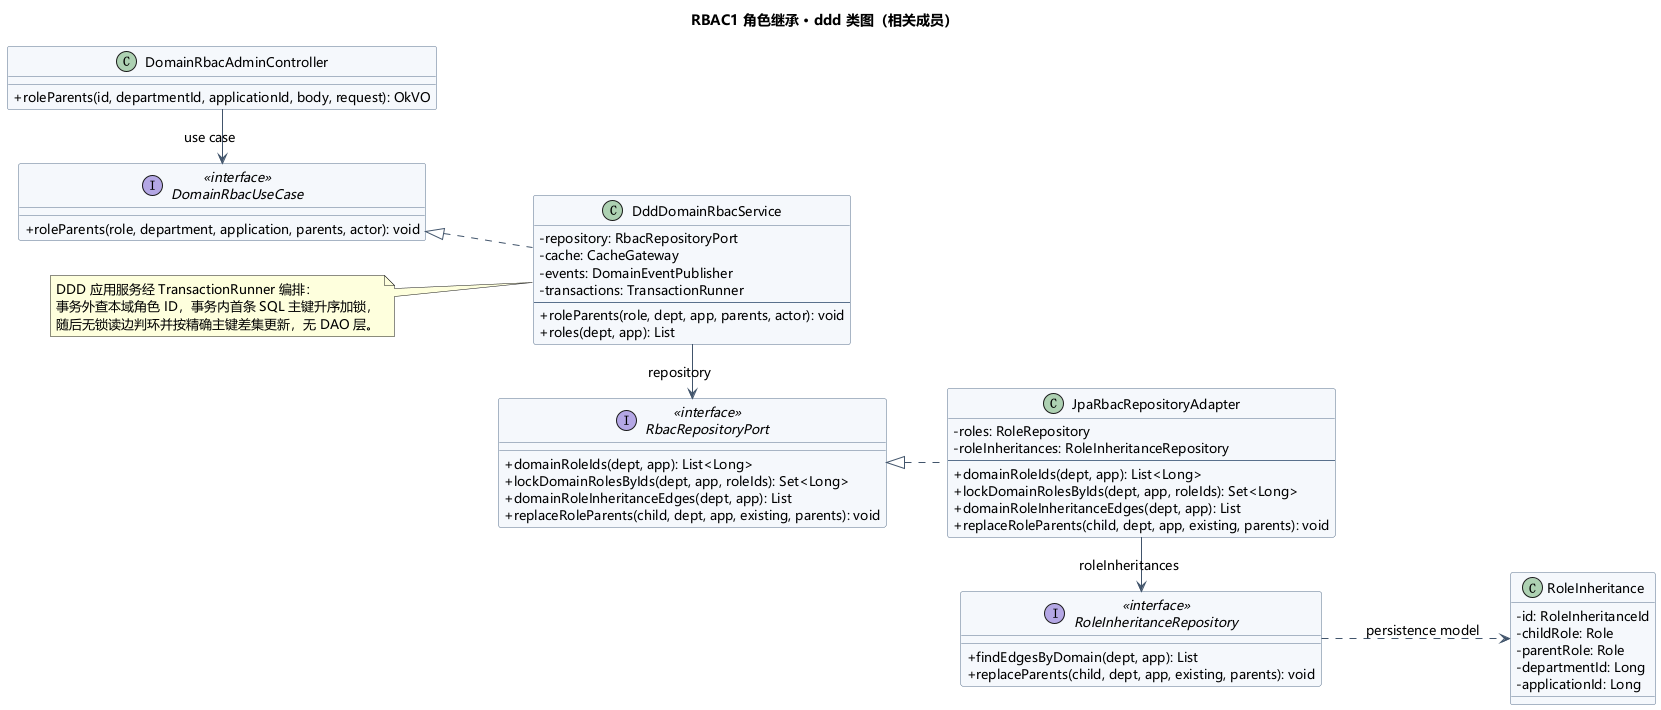
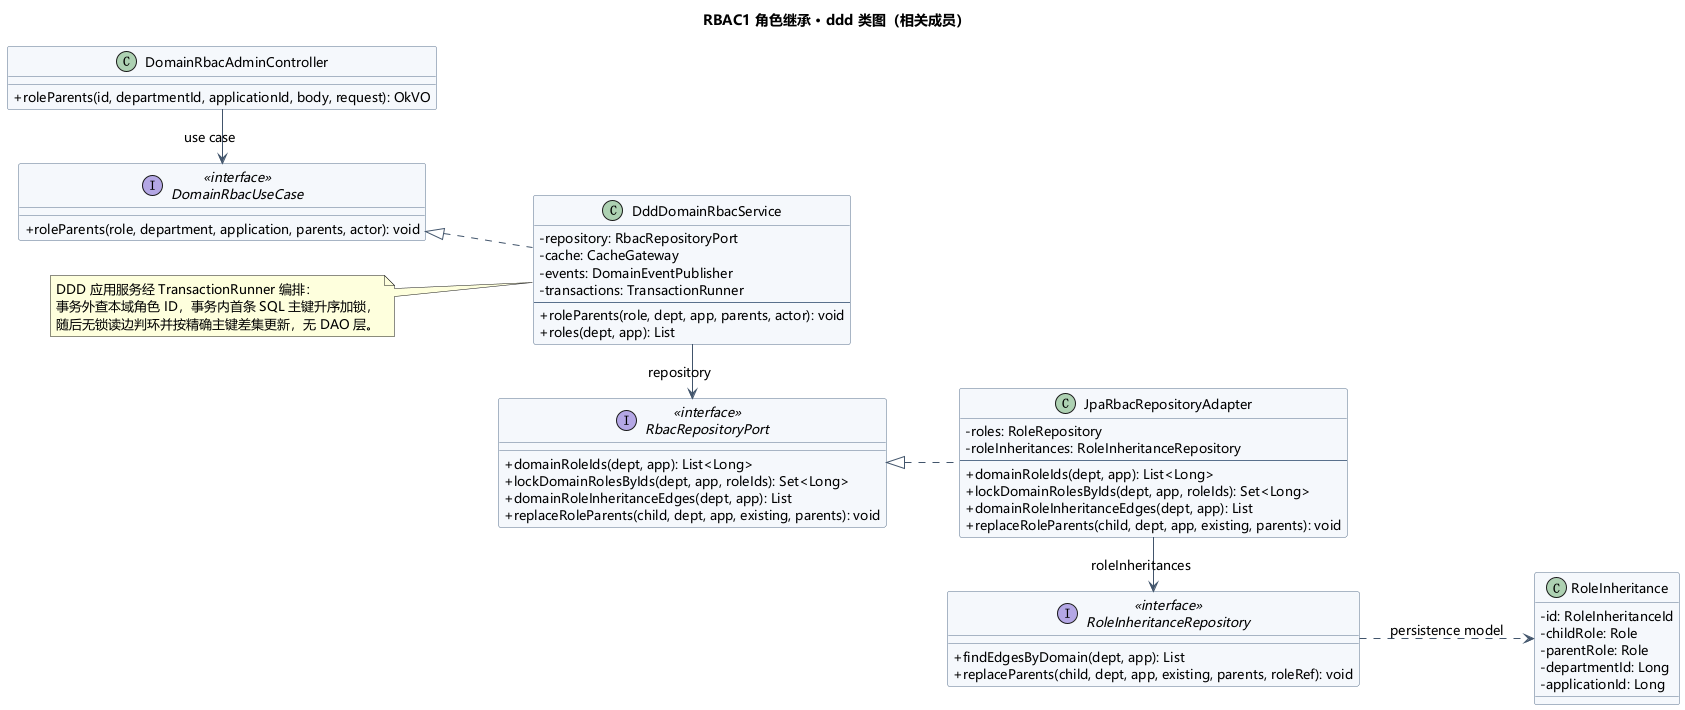
docs(architecture): sync docs and UML diagrams to pure Spring Data JPA

diff --git a/AGENTS.md b/AGENTS.md
@@ -33,7 +33,7 @@
 | IDEA | `C:\Program Files\JetBrains\IntelliJ IDEA 2024.2.1`；图形启动未实测 |
 | Shell | PowerShell 7；优先 rg 搜索。PowerShell 别名会遮蔽同名函数（例如 `Del`），临时脚本的函数名要避开内置别名 |
 
-后端包 `com.melonhub.rbac`，根包只保留 `RbacApplication`（启用定时任务），采用三层按业务模块分包与单模块双策略架构：入口层 `api/<biz>` 统一依赖 `service/port/<biz>` 的 13 个 `*UseCase`；启动时以 `melonhub.backend-strategy=structured|ddd` 排他装配 `service/structured/<biz>/Structured*Service` 或 `service/ddd/application/<biz>/Ddd*Service`。DDD 纯 Java 领域模型与端口位于 `service/ddd/domain/{model,value,repository}`，共享持久化与平台适配器统一位于 `infrastructure/`（已移除旧 `*Dao` 中间层，全面采用 Spring Data JPA 仓储与自定义 `RepositoryCustom/Impl`）。下文历史简称 `RbacService`、`AuthService`、`ContextDao` 等指对应职责；结构化树规则为 `service.structured.admin.StructuredAdminHierarchyProcedures`，DDD 为 `service.ddd.domain.model.AdminHierarchy`。类图与源码对应见 `doc/后端UML与代码导读.md`。
+后端包 `com.melonhub.rbac`，根包只保留 `RbacApplication`（启用定时任务），采用三层按业务模块分包与单模块双策略架构：入口层 `api/<biz>` 统一依赖 `service/port/<biz>` 的 13 个 `*UseCase`；启动时以 `melonhub.backend-strategy=structured|ddd` 排他装配 `service/structured/<biz>/Structured*Service` 或 `service/ddd/application/<biz>/Ddd*Service`。DDD 纯 Java 领域模型与端口位于 `service/ddd/domain/{model,value,repository}`，共享持久化与平台适配器统一位于 `infrastructure/`（已移除旧 `*Dao` 中间层及自定义 `RepositoryCustom/Impl`，全面采用纯 Spring Data JPA 仓储，零 `EntityManager`）。下文历史简称 `RbacService`、`AuthService`、`ContextDao` 等指对应职责；结构化树规则为 `service.structured.admin.StructuredAdminHierarchyProcedures`，DDD 为 `service.ddd.domain.model.AdminHierarchy`。类图与源码对应见 `doc/后端UML与代码导读.md`。
 
 老师课程系统的实际运行包已只读核对，当前经 `/auth/me` 获取权限；未发现 `resetCourseToApplication`、`setClassTeachers`、`listUsers` 或 `/auth/api-permissions` 调用，不因 OpenAPI 中出现 operationId 就增加映射。版本证据和静态核对限制见 `doc/课程权限接入核对.md`。
 
@@ -45,7 +45,7 @@
 | `service/port/<biz>` | 13 个用例端口（`OrganizationUseCase`、`ApplicationUseCase`、`DomainRbacUseCase`、`ContextUseCase`、`AuthUseCase`、`AdminRoleUseCase`、`GovernanceUseCase`、`WebhookUseCase`、`AuditUseCase`、`AuditSealUseCase`、`ConsoleUseCase`、`MaintenanceUseCase`、`IdentityUseCase`）及强类型 Command/Result、`ApiException`、`AdminFunction`/`AdminPrincipal`/`ApplicationCaller`/`Visibility` |
 | `service/structured/<biz>` | 13 个结构化事务脚本服务（`Structured*Service`）与无状态树规则工具 `StructuredAdminHierarchyProcedures`，直接组合 `infrastructure.persistence.repository` 与缓存/网关 |
 | `service/ddd/{domain,application}` | 纯 Java 领域层（`model/`、`value/`、`repository/` 11 个纯领域端口，严禁依赖 Spring/JPA/api）+ 13 个按业务分包的 `Ddd*Service` 与异常边界 `DddBoundary` |
-| `infrastructure/persistence` | `entity/`（JPA 实体，每表一个）、`repository/`（Spring Data JPA 仓储 + `*RepositoryCustom`/`*RepositoryImpl` + `JpaQuery`，应用代码中不使用 `JdbcTemplate` 与原生 SQL）与 `gateway/`（9 个 `Jpa*Adapter` 领域仓储适配器）。写操作方法返回前 flush，批量 JPQL 后清空持久化上下文，加锁读取先清空持久化上下文再带 `LockModeType` 查询；`R31_ApiContractIntegrationTest`（Structured 与 DDD 双策略）守卫 55 个核心接口 JSON 契约 |
+| `infrastructure/persistence` | `entity/`（JPA 实体，每表一个；9 个分配主键实体实现 `Persistable<ID>` 保证新建严格走 `persist`）、`repository/`（25 个纯 Spring Data JPA 仓储接口 + 无状态 `RepositorySupport`，全面使用 `@Query`/`@Lock`/`@Modifying`/`Pageable`/`Limit` 与 `default` 组合方法，零 `EntityManager`/`JdbcTemplate`/原生 SQL）与 `gateway/`（9 个 `Jpa*Adapter` 领域仓储适配器）。写操作返回前 `saveAndFlush`，批量 `@Modifying` 声明 `flushAutomatically = true, clearAutomatically = true`，非加锁读取使用标量/接口投影不污染 L1；`R31_ApiContractIntegrationTest`（Structured 与 DDD 双策略）守卫 55 个核心接口 JSON 契约，`R33_ArchitectureBoundaryUnitTest`（`ARCH-09`）强制守卫零 `EntityManager` |
 | `infrastructure/cache` | `PermissionCache`：Redis 缓存、代标记失效协议、熔断与纪元恢复 |
 | `infrastructure/security` | `ApiGuard` 统一鉴权/限流/请求编号/脱敏日志/安全头，`AdminFunctionGuard`/`RequiresFunction`，`GlobalRateLimiter`（失败回退 `RateLimiter`），`ApplicationRateLimits`（30 秒缓存），`AdminAccess`/`ApplicationAccess`，`Totp`，`ClientAddress`，`Credentials` |
 | `infrastructure/{config,gateway,identity}` | `CloudDatabaseConfiguration`、`RedisConfiguration`、`WebConfiguration`、`IdentityConfiguration`、`DemoData`；`SpringPlatformGatewaysAdapter`；`IdentityTokenService`（HS256 JWT） |

diff --git a/doc/后端UML与代码导读.md b/doc/后端UML与代码导读.md
@@ -99,7 +99,7 @@
 
 [SVG](uml/role-hierarchy-sequence.svg) · [图源](uml/role-hierarchy-sequence.puml)
 
-[DomainRbacAdminController.roleParents](../backend/src/main/java/com/melonhub/rbac/api/domainrbac/DomainRbacAdminController.java) 经 [DomainRbacUseCase](../backend/src/main/java/com/melonhub/rbac/service/port/domainrbac/DomainRbacUseCase.java) 调用 [StructuredDomainRbacService.roleParents](../backend/src/main/java/com/melonhub/rbac/service/structured/domainrbac/StructuredDomainRbacService.java)：先在写事务外经 `RoleRepository.findIdsByDomain` 收集本域角色 ID，进入写事务后首条 SQL 即通过 [RoleRepository.lockDomainRolesByIds](../backend/src/main/java/com/melonhub/rbac/infrastructure/persistence/repository/RoleRepositoryCustom.java) 仅按聚簇主键升序加排他锁（避免二级索引死锁且在持锁后才开启 ReadView），随后无锁调用 [RoleInheritanceRepository.findEdgesByDomain](../backend/src/main/java/com/melonhub/rbac/infrastructure/persistence/repository/RoleInheritanceRepository.java) 判环，并按精确联合主键差集更新 `role_inheritances`。上下文、反查与模拟分别在 [StructuredContextService](../backend/src/main/java/com/melonhub/rbac/service/structured/context/StructuredContextService.java)、[UserRoleRepositoryImpl](../backend/src/main/java/com/melonhub/rbac/infrastructure/persistence/repository/UserRoleRepositoryImpl.java) 与 [StructuredDomainRbacService](../backend/src/main/java/com/melonhub/rbac/service/structured/domainrbac/StructuredDomainRbacService.java) 展开继承链。
+[DomainRbacAdminController.roleParents](../backend/src/main/java/com/melonhub/rbac/api/domainrbac/DomainRbacAdminController.java) 经 [DomainRbacUseCase](../backend/src/main/java/com/melonhub/rbac/service/port/domainrbac/DomainRbacUseCase.java) 调用 [StructuredDomainRbacService.roleParents](../backend/src/main/java/com/melonhub/rbac/service/structured/domainrbac/StructuredDomainRbacService.java)：先在写事务外经 `RoleRepository.findIdsByDomain` 收集本域角色 ID，进入写事务后首条 SQL 即通过 [RoleRepository.lockDomainRolesByIds](../backend/src/main/java/com/melonhub/rbac/infrastructure/persistence/repository/RoleRepository.java) 仅按聚簇主键升序加排他锁（避免二级索引死锁且在持锁后才开启 ReadView），随后无锁调用 [RoleInheritanceRepository.findEdgesByDomain](../backend/src/main/java/com/melonhub/rbac/infrastructure/persistence/repository/RoleInheritanceRepository.java) 判环，并按精确联合主键差集更新 `role_inheritances`。上下文、反查与模拟分别在 [StructuredContextService](../backend/src/main/java/com/melonhub/rbac/service/structured/context/StructuredContextService.java)、[UserRoleRepository](../backend/src/main/java/com/melonhub/rbac/infrastructure/persistence/repository/UserRoleRepository.java) 与 [StructuredDomainRbacService](../backend/src/main/java/com/melonhub/rbac/service/structured/domainrbac/StructuredDomainRbacService.java) 展开继承链。
 
 ### 4.2 DDD 实现
 

diff --git a/doc/requirements.md b/doc/requirements.md
@@ -430,9 +430,8 @@ mvn -f backend/pom.xml test "-Dtest=*UnitTest"
 
 ## 7. 联调边界与待演进事项（对标 `CourseProjectMgt`）
 
-为便于与教师示例平台 [CourseProjectMgt](https://gitee.com/mingqcn/course-project-mgt) 持续演进，记录当前 4 项已知接口与加固边界（需按实际调用和验证范围判断，不等同本轮必补缺陷）：
+为便于与教师示例平台 [CourseProjectMgt](https://gitee.com/mingqcn/course-project-mgt) 持续演进，记录当前 3 项已知接口与加固边界（需按实际调用和验证范围判断，不等同本轮必补缺陷；注：此前记录的模糊检索通配符转义已在纯 Spring Data JPA 重构中统一通过 `RepositorySupport.like()` + `escape '!'` 覆盖全部检索接口）：
 
 1. **外部审计日志写入接口（`POST /auth/audit-logs`）**：MelonHub 已实现 `GET /auth/audit-logs`（`R25`）按授权部门查询课程业务事件；`CourseProjectMgt` 的 `UnifiedAuditClient` 另定义了事务提交后写入接口 `POST /auth/audit-logs`（带 `requestId` 幂等键及 `before/after/termId/courseId/classId` 扩展字段），后续可在 MelonHub 补齐写入入口与扩展列以打通闭环。
 2. **课程 API `operationId` 映射边界**：`resetCourseToApplication`、`setClassTeachers`、`listUsers` 未加入当前映射；2026-11-24 已核对老师系统身份客户端和实际运行镜像中的 499 个应用类，未发现这些操作名或 `/auth/api-permissions` 调用。当前课程后端通过 `/auth/me` 获取权限集合。此处不是当前接入缺陷，本次不补映射；换版后重新核对。见 [课程权限接入核对](课程权限接入核对.md)。
 3. **统一身份登录防爆破与过期会话清理**：管理后台 `/api/auth/login` 已具备 IP 限流、5 次失败锁定与 `dummyHash` 防枚举；后续可将 `/auth/login` 同样接入 `GlobalRateLimiter` 与失败锁定，并在 `MaintenanceUseCase`（`StructuredMaintenanceService` / `DddMaintenanceService`）补充对过期/已撤销 `identity_sessions` 的分批清理。
-4. **模糊检索通配符转义统一**：`AuditEventRepositoryImpl` 的课程审计查询已使用 `JpaQuery.like()` + `escape '!'`，后续可将部门与成员搜索查询同步改为相同转义方式。

diff --git a/doc/ARCHITECTURE.md b/doc/ARCHITECTURE.md
@@ -232,7 +232,7 @@ flowchart TB
 | `service/structured/<biz>/` | 纯结构化实现：13 个 `Structured*Service` + 纯静态过程校验集 `StructuredAdminHierarchyProcedures`（`melonhub.backend-strategy=structured`，默认） |
 | `service/ddd/domain/` | 不依赖框架的纯 Java 领域层：`value/`、`model/`、`repository/`（11 个领域仓储与网关端口） |
 | `service/ddd/application/<biz>/` | 13 个 DDD 应用服务 `Ddd*Service` 与边界异常映射 `DddBoundary`（`melonhub.backend-strategy=ddd`） |
-| `infrastructure/persistence/` | `entity/`（JPA 实体，每张表一个，复合主键用 `@EmbeddedId`）、`repository/`（Spring Data JPA 仓储 + `*RepositoryCustom`/`*RepositoryImpl` + `JpaQuery`，无独立 DAO 层）与 `gateway/`（9 个 `Jpa*Adapter`） |
+| `infrastructure/persistence/` | `entity/`（JPA 实体，每张表一个，复合主键用 `@EmbeddedId`，9 个分配主键实体实现 `Persistable<ID>`）、`repository/`（25 个纯 Spring Data JPA 仓储接口 + `RepositorySupport`，全面基于 `@Query`/`@Lock`/`@Modifying`/`Pageable`/`Limit`，零 `EntityManager`、无独立 DAO 层）与 `gateway/`（9 个 `Jpa*Adapter`） |
 | `infrastructure/gateway/` | `SpringPlatformGatewaysAdapter` 平台网关适配器（缓存、加密、HTTP Webhook、JWT、指标） |
 | `infrastructure/identity/` | `IdentityTokenService`：统一身份纯 JDK HS256 JWT 签发与常量时间验签工具 |
 | `infrastructure/cache/` | `PermissionCache`：Redis 缓存、失效协议、熔断与恢复 |
